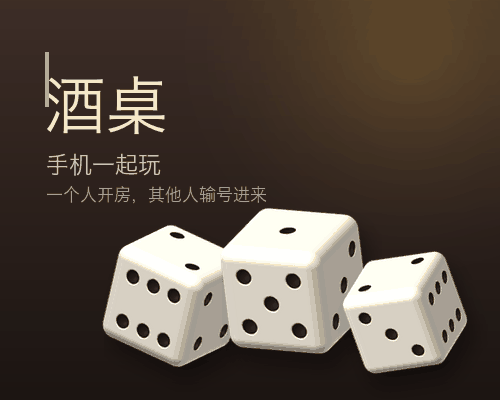
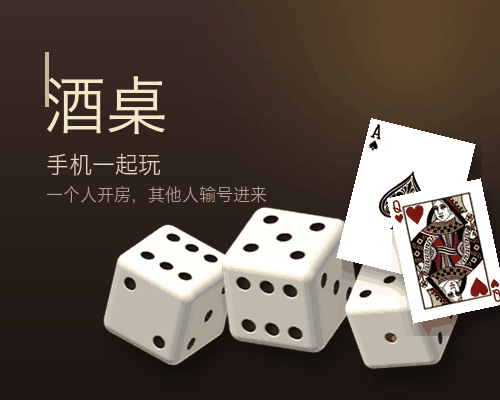
feat(3.11.3): 分享封面加扑克牌 —— 让人一眼看出这是"酒桌游戏全套"
分享封面是**新用户对产品的第一印象**（群里/朋友圈看到的就是它）。
原来只有三颗骰子 —— 而产品有 5 个玩法，其中金花是扑克。

现在：三颗骰子 + 两张叠放的扑克（黑桃A / 红桃Q，用新换的 CC0 蚀刻风牌面），
正好覆盖两类核心道具（骰子类 3 个玩法 / 扑克类 1 个 / 转盘 1 个）。

⚠ 过程中修了一个真实缺陷：
   `gen-share-cover.py` 里 `IMG` 还指向主包 `miniprogram/images/`，
   而骰子和牌面在 **2026-10-28 拆包时已经移到分包的 `miniprogram/game/images/`** ——
   这个脚本从那天起就**跑不起来**（FileNotFoundError）。
   加 `GAME_IMG` 指向分包后才恢复。

   这类"目录挪了但引用没跟着改"和之前"功能改了文案没跟"是同一类问题。
   只是这次藏在一个不常跑的脚本里。

排版调了三版（第一版牌贴边、第二版遮住骰子、第三版平衡）—— 纯视觉，靠渲染图判断。

diff --git a/scripts/render-ui.js b/scripts/render-ui.js
@@ -101,6 +101,19 @@ function loadMock(pageKey, stateName) {
   const m = require(f)
   const states = m.states || {}
   const base = typeof m.data === 'function' ? m.data() : (m.data || {})
+  /*
+   * ★★★ 2026-10-30：状态名不存在时**必须报错**，不能静默回退。
+   *
+   * 之前写 `states[stateName] || {}` —— 传错名字（比如 pkAsk / pkDrinks）
+   * 会静默渲染成 base 大厅，看起来"渲染成功"，实际是**完全另一个界面**。
+   * 我就这样白看了好几张"金花状态"的截图，它们其实是大厅。
+   */
+  if (stateName && !states[stateName]) {
+    const known = Object.keys(states).sort().join(' ')
+    console.error('✗ 没有这个状态: ' + stateName)
+    console.error('  可用状态: ' + known)
+    process.exit(1)
+  }
   const extra = typeof states[stateName] === 'function' ? states[stateName]() : (states[stateName] || {})
   // 深合并一层够用
   const merged = Object.assign({}, base)

diff --git a/miniprogram/config.js b/miniprogram/config.js
@@ -46,5 +46,5 @@ module.exports = {
    *   用户报障时我一度据此判断"他跑的是旧代码"，方向差点错。
    *   **每个用户可见的版本（上传体验版/发布）之前，必须先同步这里。**
    */
-  version: '3.11.2'
+  version: '3.11.3'
 }

diff --git a/scripts/gen-share-cover.py b/scripts/gen-share-cover.py
@@ -14,6 +14,9 @@ from PIL import Image, ImageDraw, ImageFont, ImageFilter
 
 ROOT = os.path.dirname(os.path.dirname(os.path.abspath(__file__)))
 IMG = os.path.join(ROOT, 'miniprogram', 'images')
+# ★ 2026-10-30：骰子和牌面在**分包**里（2026-10-28 拆包时移过去的），
+#   而这个脚本还按主包的 images/ 找 —— 跑起来直接 FileNotFoundError。
+GAME_IMG = os.path.join(ROOT, 'miniprogram', 'game', 'images')
 OUT = os.path.join(IMG, 'share-cover.png')
 
 W, H = 500, 400
@@ -52,7 +55,7 @@ def radial_glow(w, h, color, cx, cy, radius, alpha=110):
 
 
 def load_die(n, size):
-    p = os.path.join(IMG, 'dice', f'dice-{n}.png')
+    p = os.path.join(GAME_IMG, 'dice', f'dice-{n}.png')
     im = Image.open(p).convert('RGBA')
     w, h = im.size
     k = size / max(w, h)
@@ -117,6 +120,24 @@ def main():
         shadow = shadow.filter(ImageFilter.GaussianBlur(9))
         base.paste(Image.new('RGB', shadow.size, (0, 0, 0)), (x + 8, y + 14), shadow)
         base.paste(die, (x, y), die.split()[3])
+
+    # ★ 2026-10-30：加两张扑克牌，让封面能代表"5 个玩法"而不只是骰子。
+    #   用新换的 CC0 蚀刻风牌面（c{s}-{r}.png），斜放在骰子右侧，
+    #   和骰子形成"牌 + 骰"的组合 —— 这正是酒桌的两种核心道具。
+    card_spec = [('c0-14', 108, -14, 336, 118), ('c1-12', 96, 12, 386, 178)]
+    for name, w, angle, x, y in card_spec:
+        cp = os.path.join(GAME_IMG, 'card', name + '.png')
+        if not os.path.exists(cp):
+            continue                      # 素材不在就跳过，不崩
+        card = Image.open(cp).convert('RGBA')
+        k = w / card.size[0]
+        card = card.resize((w, int(card.size[1] * k)), Image.LANCZOS)
+        card = card.rotate(angle, resample=Image.BICUBIC, expand=True)
+        sh = Image.new('RGBA', card.size, (0, 0, 0, 0))
+        sh.paste((0, 0, 0, 110), (0, 0), card.split()[3])
+        sh = sh.filter(ImageFilter.GaussianBlur(8))
+        base.paste(Image.new('RGB', sh.size, (0, 0, 0)), (x + 6, y + 12), sh)
+        base.paste(card, (x, y), card.split()[3])
 
     d = ImageDraw.Draw(base)
 
